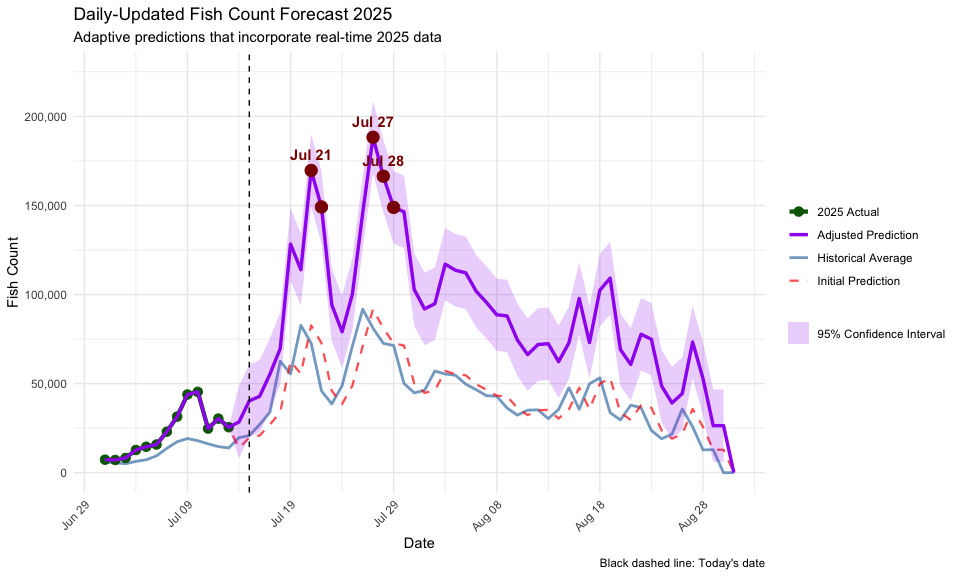
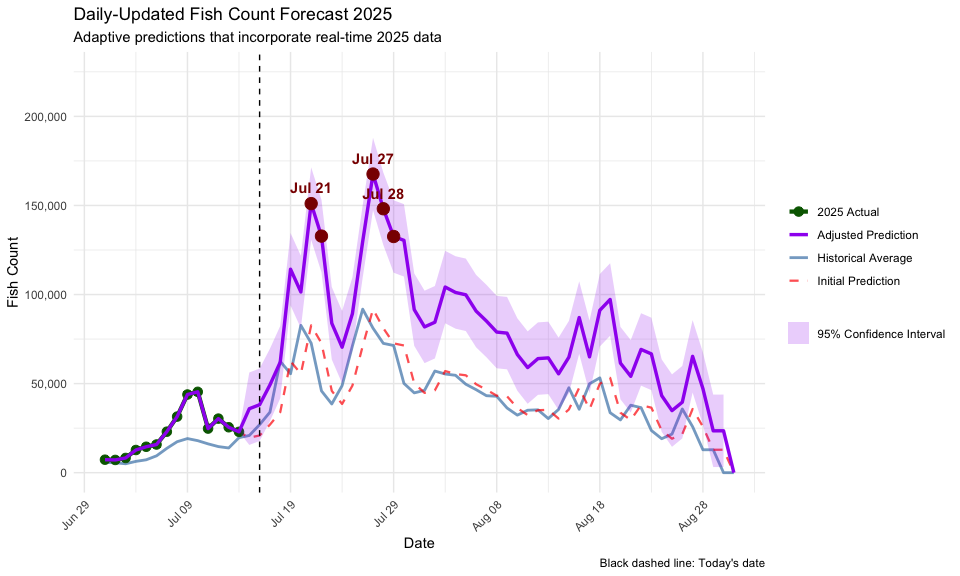
daily update

Changed region(s): [[0.2188, 0.1875, 0.7812, 0.8125]]

diff --git a/kenai_sockeye_counts.md b/kenai_sockeye_counts.md
@@ -2,7 +2,7 @@ Kenai River Sockeye Salmon Count Forecasting: Daily Fish Count
 Predictions
 ================
 Joe Hicks
-updated: 2025-07-15
+updated: 2025-07-16
 
 - [Summary](#summary)
 - [Data Loading & Preparation](#data-loading--preparation)
@@ -195,7 +195,7 @@ tidy(ets_model) |>
 
 | method     |     aic | sigma2 |  loglik |
 |:-----------|--------:|-------:|--------:|
-| ETS(M,N,N) | 1333.72 |   0.07 | -663.86 |
+| ETS(M,N,N) | 1333.97 |   0.08 | -663.98 |
 
 ETS Model Summary
 
@@ -210,7 +210,7 @@ checkresiduals(ets_model)
     ##  Ljung-Box test
     ## 
     ## data:  Residuals from ETS(M,N,N)
-    ## Q* = 9.2335, df = 10, p-value = 0.5101
+    ## Q* = 9.0007, df = 10, p-value = 0.532
     ## 
     ## Model df: 0.   Total lags used: 10
 
@@ -405,11 +405,11 @@ predicted_peaks_updated |>
 
 | peak_rank | date_2025 | month_day | predicted_count | adjusted_prediction | data_status |
 |---:|:---|:---|---:|---:|:---|
-| 1 | 2025-07-27 | 07-27 | 91783 | 188297 | Future prediction |
-| 2 | 2025-07-21 | 07-21 | 82692 | 169646 | Future prediction |
-| 3 | 2025-07-28 | 07-28 | 81110 | 166401 | Future prediction |
-| 4 | 2025-07-22 | 07-22 | 72706 | 149159 | Future prediction |
-| 5 | 2025-07-29 | 07-29 | 72585 | 148911 | Future prediction |
+| 1 | 2025-07-27 | 07-27 | 91783 | 167643 | Future prediction |
+| 2 | 2025-07-21 | 07-21 | 82692 | 151038 | Future prediction |
+| 3 | 2025-07-28 | 07-28 | 81110 | 148149 | Future prediction |
+| 4 | 2025-07-22 | 07-22 | 72706 | 132798 | Future prediction |
+| 5 | 2025-07-29 | 07-29 | 72585 | 132578 | Future prediction |
 
 Top 5 Predicted Peak Days for 2025
 
@@ -617,6 +617,6 @@ kable(true_accuracy_metrics)
 
 | n_observations | mean_abs_error | median_abs_error | mean_pct_error |  rmse |
 |---------------:|---------------:|-----------------:|---------------:|------:|
-|             13 |          11383 |             8577 |           47.8 | 13809 |
+|             14 |          11217 |             8818 |           47.2 | 13525 |
 
 ------------------------------------------------------------------------
